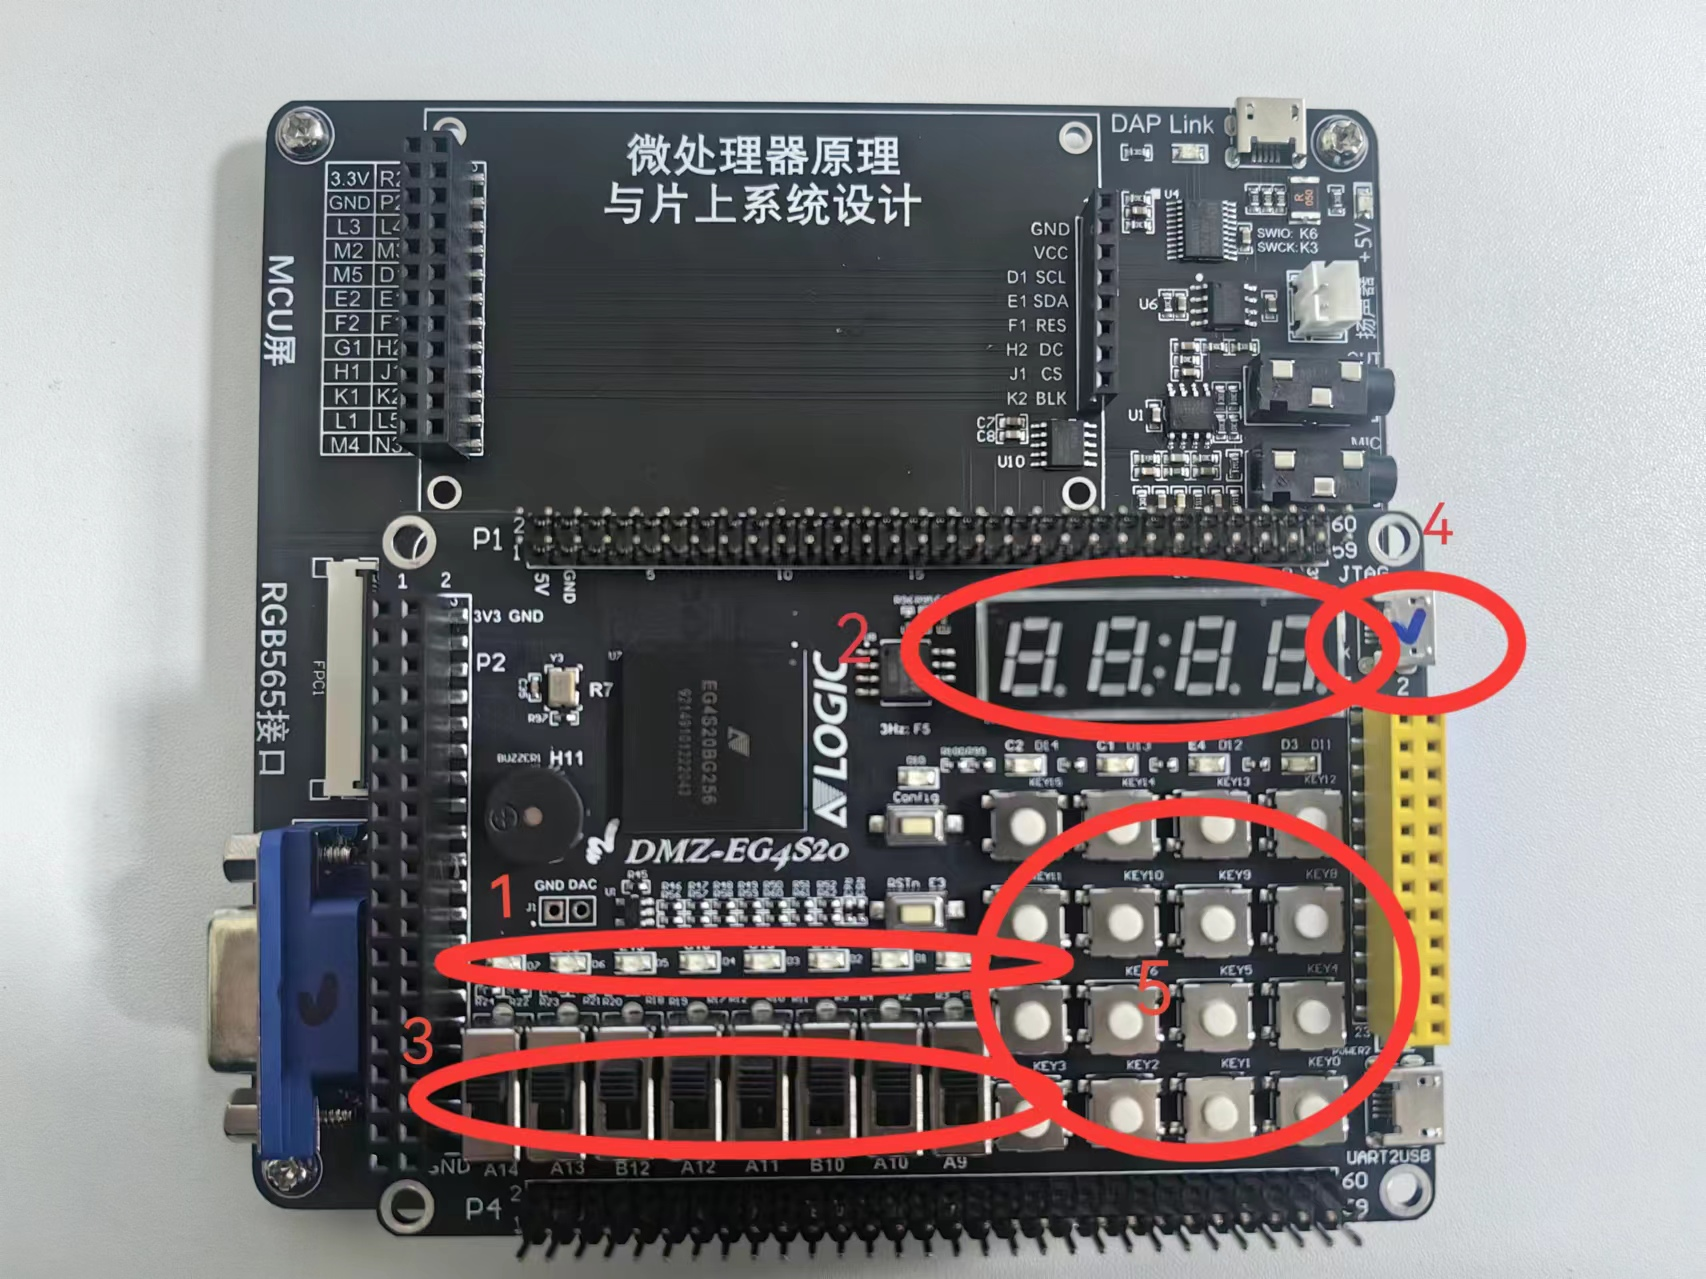
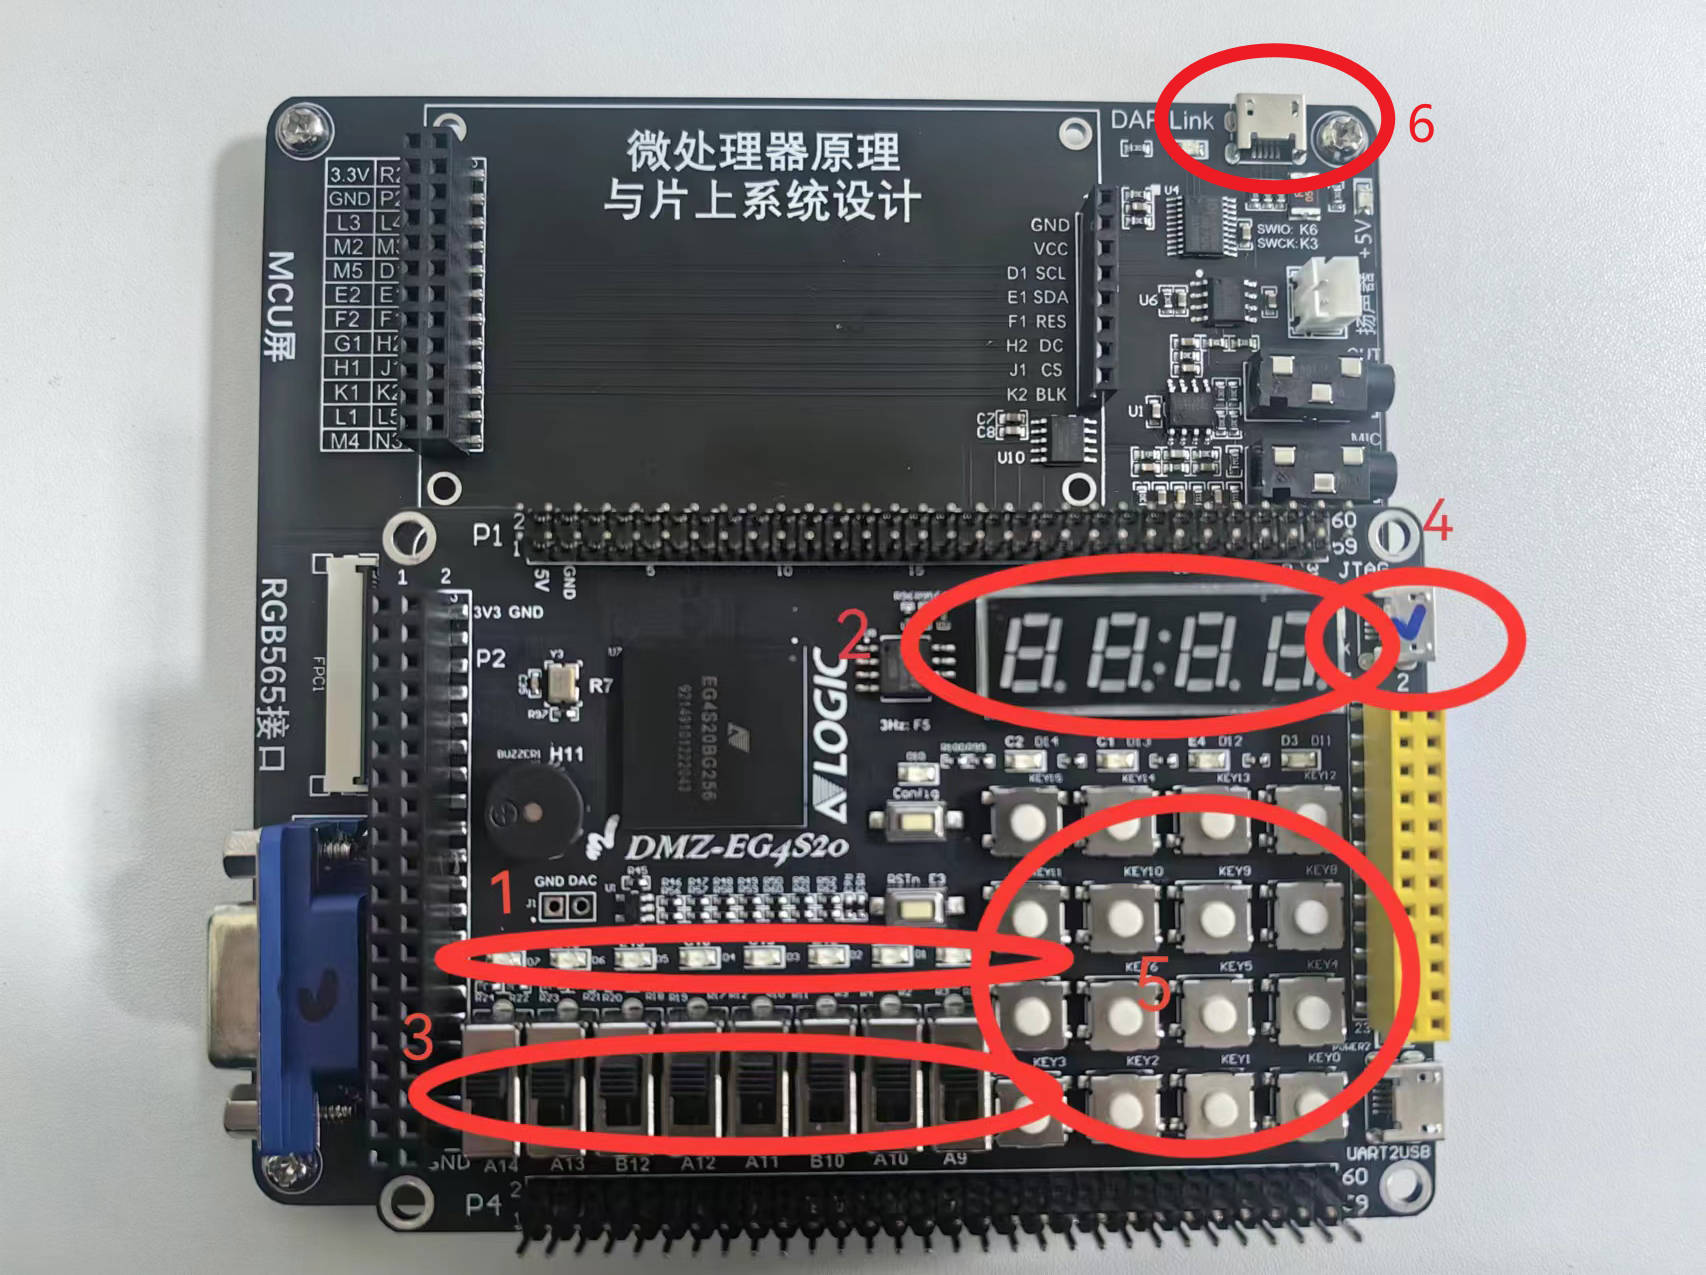
更新平台介绍中部分配图和内容； 更新lab2中TD和Keil操作部分的相关说明，添加了一些常见错误解决方案

diff --git a/lab0/board_intro.md b/lab0/board_intro.md
@@ -1,6 +1,6 @@
 # 平台介绍
 
-本次实验使用的 FPGA 芯片型号为安路 EG4S20开发板, 使用的开发板如下图.
+本次实验使用的 FPGA 芯片型号为安路 EG4S20BG256, 使用的开发板如下图所示，由一块核心板和一块底板连接而成.
 
 <div align ="center"><img src="/img/lab0/03.jpg" alt="开发板" style="zoom:100%;" /><div align ="center">
 
@@ -12,7 +12,7 @@
 
 ## LED 灯
 
-LED 灯对应[上图](#平台介绍)中红框 1 的部分. 本次实验使用的开发板提供8个直接由 FPGA 引脚驱动的 LED 灯 LED0 - LED7, 当 FPGA 输出高电平时, LED 灯点亮.
+LED 灯对应[上图](#平台介绍)中红圈 1 的部分. 本次实验使用的开发板提供8个直接由 FPGA 引脚驱动的 LED 灯 LED0 - LED7, 当 FPGA 输出高电平时, LED 灯点亮.
 
 ## 数码管
 
@@ -24,11 +24,11 @@ LED 灯对应[上图](#平台介绍)中红框 1 的部分. 本次实验使用的
 
 ## 调试模块
 
-调试模块对应[上图](#平台介绍)中红圈 4 的部分. 在搭建基于 Cortex-M0 的 SoC 时, 调试系统是必不可少的. 为了方便使用, FPGA 开发板在设计之初便将调试电路封装在板上, 预留出来一个 JTAG 口用于和 PC 机通信, 这样做不仅简化了对调试器内部原理的理解需求, 而且方便了连线. 调试器部分的端口需要约束的有一个时钟信号和一个双向的数据信号. 调试时需要注意.
+调试模块对应[上图](#平台介绍)中红圈 4 的部分和红圈 6 的部分. 在搭建基于 Cortex-M0 的 SoC 时, 调试系统是必不可少的. 为了方便使用, FPGA 开发板在设计之初便将调试电路封装在板上, 预留出来一个 JTAG 口和一个 DAP-LINK 口用于和 PC 机通信, 这样做不仅简化了对调试器内部原理的理解需求, 而且方便了连线. 调试器部分的端口需要约束的有一个时钟信号和一个双向的数据信号. 调试时需要注意.
 
 > #### hint::为什么会有两个接口?
 >
-> 上面的 DAP-LINK 的接口是用来调试 FPGA 中的 SoC 的, 下面的 JTAG 接口是用来下载比特流文件的. 
+> 上面的（红圈6）的 DAP-LINK 的接口是用来调试 FPGA 中的 SoC 的（在Keil软件中）, 下面的（红圈4）的 JTAG 接口是用来下载比特流文件的（在TD软件中）. 
 >
 > 通俗的来说, 当你想要把 Verilog 代码下载到 FPGA 开发板上时, 你应该使用下面的接口; 当你想要使用汇编语言或者 C 语言来控制 FPGA 中实现的 SoC 时, 你应该使用上面的接口. 这部分内容我们将会在[LAB2: "点石成金" - 实现你的首个 SoC](../lab2/introduction.md)中涉及.
 
@@ -38,7 +38,7 @@ LED 灯对应[上图](#平台介绍)中红框 1 的部分. 本次实验使用的
 
 
 
-## FPGA芯片
+## 扩展板简要介绍
 
 1. 搭配安路 EG4S20开发板，扩展更多实验项目，底板配有
    - 安路 EG4S20口袋实验核心板
@@ -54,7 +54,8 @@ LED 灯对应[上图](#平台介绍)中红框 1 的部分. 本次实验使用的
 <div align ="center"><img src="/img/lab0/12.png" alt="开发板" style="zoom:100%;" /><div align ="center">
 <center style="color:#000000;font-size:10pt;">本次实验使用的FPGA开发板的扩展板</center>
 
-对于扩展板的更多信息可以访问[微处理器原理与片上系统设计简介](https://www.yuque.com/yingmuketang/01/ybuzk6rfe3lk923i)
+- 对于核心板的更多信息可以访问[芯片和板卡简介](https://www.yuque.com/yingmuketang/01/sz9qkx4rnuw6yctz)
+- 对于扩展板的更多信息可以访问[微处理器原理与片上系统设计简介](https://www.yuque.com/yingmuketang/01/ybuzk6rfe3lk923i)
 
 > #### hint::使用板子时请注意
 >

diff --git a/lab2/sec_4.md b/lab2/sec_4.md
@@ -55,7 +55,13 @@
 
 然后点击上侧导航栏的Run, 这时 TD 将会依次执行 RTL 分析 (RTL Analysis), 综合 (Synthesis), 实现 (Implementation) 和 生成比特流文件 (Generate Bitstream) 四个步骤. 最终生成的比特流文件用于 FPGA 的配置.
 
-等待 TD 运行一段时间后, 可以看到弹出的比特流下载成功提示窗口, 关闭该窗口. 
+等待 TD 运行一段时间后, 可以看到弹出的提示窗口, 表明比特流文件生成成功，关闭该窗口. 
+
+<!-- -->
+> #### hint::出错了？
+> 初次综合生成可能会有提示：
+> `"ERROR:Cannot find license file .../Anlogic/TD5.6.2/license/Anlogic.lic"`
+> 这是因为TD软件没有找到license文件，相当于软件没有激活，把提供的Anlogic.lic放到它提示的文件夹（你的TD安装目录即可），之后再次综合生成应该就正常了
 
 <center><img src="/img/lab2/pics/10.png" alt="31" style="zoom:73%;" /></center><center style="color:#0";>比特流下载成功提示窗口</center>
 
@@ -89,6 +95,8 @@
 
 <center><img src="/img/lab2/pics/18.png" alt="36" style="zoom:70%;" /></center><center style="color:#0";>每次下载前记得检查比特流文件路径是否有误</center>
 
+如果在Bit文件选择的时候，发现没有识别到FPGA开发板，请参考[JTAG驱动安装](#JTAG驱动安装)
+
 <!-- -->
 > #### hint::TD 的工程目录结构
 > 为了更好地帮助你找到工程中的文件(如日志文件,比特流文件等), 这里有必要简单介绍一下 TD 默认的工程目录结构.
@@ -109,3 +117,14 @@
 
 <!-- -->
 
+### JTAG驱动安装
+
+初次下载比特流到FPGA上的时候，有可能会发现没有找到FPGA板子，原因是没有添加驱动。在windows的设备管理器的串行总线设备中，你可能会发现有有一个设备是这样：
+
+<center><img src="/img/lab2/pics/21.png" alt="29" style="zoom:70%;" /></center>
+
+这个时候，你需要右键：更新驱动程序-浏览我的电脑以查找驱动程序，选择Anlogic TD的安装目录下的Driver文件夹`".../Anlogic/TD5.6.2/driver"`，勾选包括子文件夹，之后它会自动找到驱动，然后你会发现设备名称改变了：
+
+<center><img src="/img/lab2/pics/23.png" alt="29" style="zoom:70%;" /></center>
+
+这个时候，在TD里面重新打开Download，应该能找到设备了。

diff --git a/lab2/sec_6.md b/lab2/sec_6.md
@@ -18,6 +18,14 @@
 
 <center><img src="/img/lab2/33.png" alt="33" style="zoom:60%;" /></center><center style="color:#0";>调试器设置</center> 
 
+<!-- -->
+> #### hint::未找到设备或连接失败
+> 如果是提示`No Debug Unit Device found`，说明板子没有找到调试器，检查调试器类型选择是否正确，USB线是否连接正确。
+>
+> 如果是提示`SWD/JTAG Communication Failure`，说明 DAP-LINK 调试器和电脑连上了，但是 DAP-LINK 无法和FPGA上我们之前写的硬件部分进行通信，请检查比特流是否正确下载/固化到FPGA开发板上，并检查硬件部分是否正确。
+>
+> 很多时候，通过报错提示就能分析判断问题在哪，所以要善于去看错误信息，并尝试搜索解决问题，英文的报错信息不是什么乱码，而是能够帮助你解决问题的线索。
+
 ## 调试
 
 连接完成后, 点击 Keil 工具栏中的<img src="/img/lab1/02-15.png" alt="02-15" style="zoom:100%;" />图标进入调试, 这时会发现调试界面和 LAB1 中用到的仿真界面基本是一样的, 只是调试界面中运行的是实际板卡中的程序, 而不是软件仿真的程序.

diff --git a/lab2/sec_5.md b/lab2/sec_5.md
@@ -28,6 +28,6 @@
 > 由于 FLASH 每次被写入前都需要进行漫长的擦除操作, 而写入操作本身也是一个比较缓慢的过程, 所以相比 Program Device, Add Configuration Memory Device 一般需要花费更多的时间.
 
 <!-- -->
-> #### hint: 移除固化文件
+> #### hint::移除固化文件
 > 硬件固化过一次后想要重新固化之前, 点击Download，选择上方的Erase FLASH，即可移除掉之前的固化文件，从而可以进行下一次的固化。
 > <center><img src="/img/lab2/pics/20.png" alt="42" style="zoom:70%;" /></center><center style="color:#0";>Remove Configuration Memory Device</center> 
